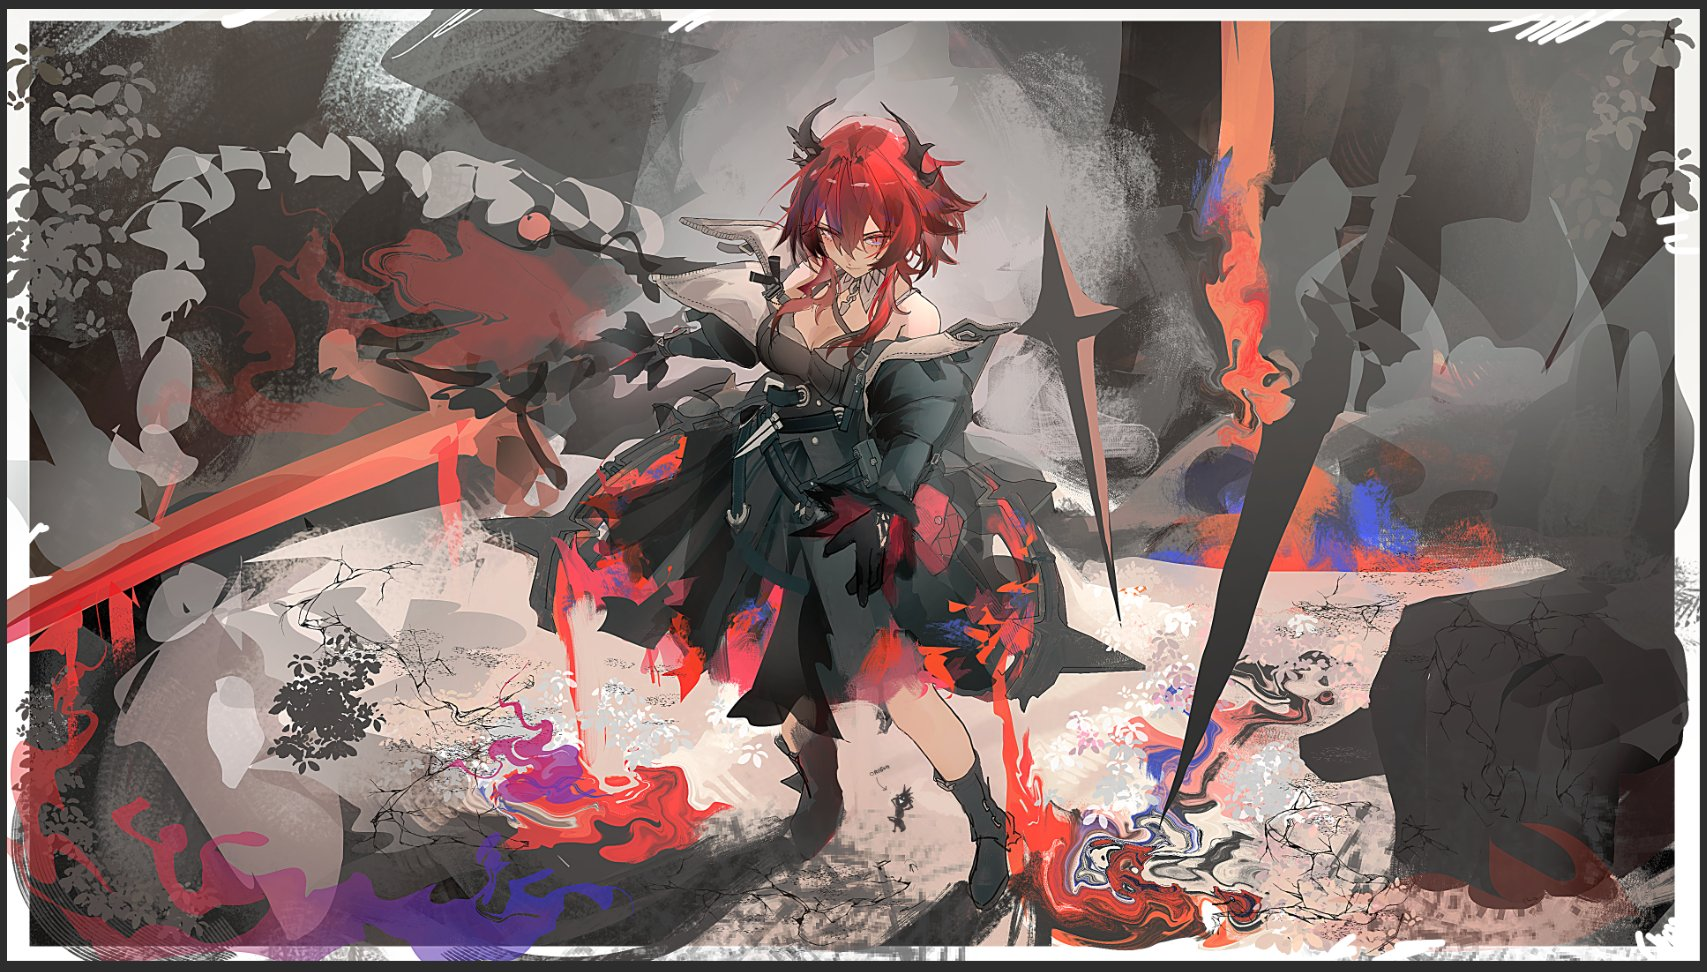
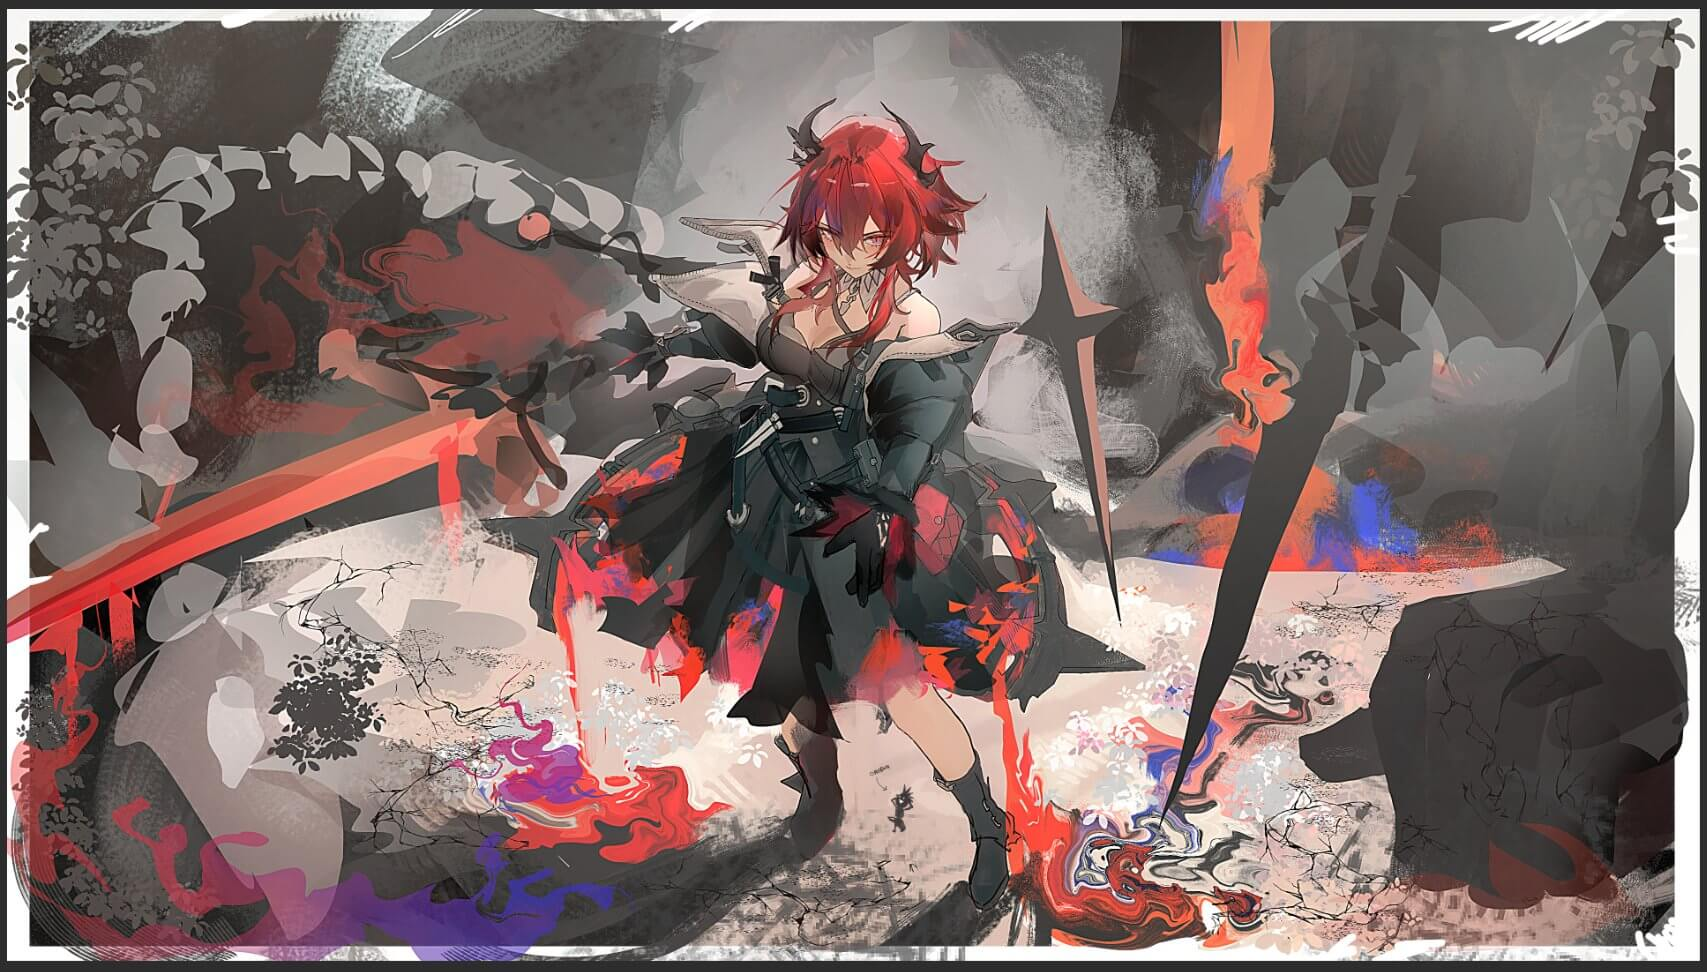
Add interactive member card themes
Expose MemberCard through slash commands, add previewable theme selection, and include the Perlica theme. Also commit the manually compressed bundled theme backdrops to keep the cog size down.

diff --git a/membercard/membercard.py b/membercard/membercard.py
@@ -10,6 +10,77 @@ from .card import DEFAULT_THEME, THEMES, render_card
 
 log = logging.getLogger("red.raidensakura.membercard")
 
+THEME_DESCRIPTIONS = {
+    "classic": "An ID-badge style card with a barcode footer.",
+    "laevatain": "A full-art profile card with a stat panel.",
+    "fangyi": "A green-trimmed full-art profile card.",
+    "yvonne": "A pink-trimmed full-art profile card.",
+    "perlica": "A steel-blue full-art profile card.",
+}
+
+
+class ThemePicker(discord.ui.Select):
+    """A private theme selector that refreshes the card preview when changed."""
+
+    def __init__(self, cog: "MemberCard", member: discord.Member, theme: str):
+        options = [
+            discord.SelectOption(
+                label=name.title(),
+                value=name,
+                description=THEME_DESCRIPTIONS.get(name),
+                default=name == theme,
+            )
+            for name in THEMES
+        ]
+        super().__init__(
+            placeholder="Choose a card theme",
+            min_values=1,
+            max_values=1,
+            options=options,
+            custom_id="membercard_theme_picker",
+        )
+        self.cog = cog
+        self.member = member
+
+    async def callback(self, interaction: discord.Interaction):
+        if interaction.user.id != self.member.id:
+            await interaction.response.send_message(
+                "This theme picker isn't for you.", ephemeral=True
+            )
+            return
+
+        theme = self.values[0]
+        await interaction.response.defer()
+        try:
+            buffer = await self.cog._generate_card(self.member, theme_override=theme)
+        except Exception as exc:
+            log.exception(
+                "Failed to generate theme preview for %s.", self.member.id, exc_info=exc
+            )
+            await interaction.edit_original_response(
+                content="Something went wrong while generating that theme preview."
+            )
+            return
+
+        await self.cog.config.user(self.member).theme.set(theme)
+        self.view.set_theme(theme)
+        embed = self.cog._theme_preview_embed(self.member, theme)
+        file = discord.File(buffer, filename="membercard.png")
+        await interaction.edit_original_response(
+            content=None, embed=embed, attachments=[file], view=self.view
+        )
+
+
+class ThemePickerView(discord.ui.View):
+    def __init__(self, cog: "MemberCard", member: discord.Member, theme: str):
+        super().__init__(timeout=180)
+        self.add_item(ThemePicker(cog, member, theme))
+
+    def set_theme(self, theme: str) -> None:
+        picker = self.children[0]
+        for option in picker.options:
+            option.default = option.value == theme
+
 
 class MemberCard(commands.Cog):
     """
@@ -18,7 +89,7 @@ class MemberCard(commands.Cog):
     """
 
     __author__ = ["raidensakura"]
-    __version__ = "1.0.0"
+    __version__ = "1.1.0"
 
     default_guild = {"enabled": False, "channel": None}
     default_user = {"theme": None}
@@ -75,6 +146,13 @@ class MemberCard(commands.Cog):
     async def _generate_card(
         self, member: discord.Member, *, theme_override: str = None
     ) -> io.BytesIO:
+        # Interaction payloads can contain a lightweight Member without presence
+        # activities. Prefer Red's cached guild member so theme-picker previews
+        # receive the same custom-status data as prefix-command card renders.
+        cached_member = member.guild.get_member(member.id)
+        if cached_member is not None:
+            member = cached_member
+
         avatar_bytes = await member.display_avatar.with_size(512).read()
 
         guild_icon_bytes = None
@@ -134,13 +212,29 @@ class MemberCard(commands.Cog):
             title=f"Welcome to {member.guild.name}!",
             description=(
                 f"{member.mention} just joined the server.\n"
-                f"Use `{prefix}membercard theme` to change your card's theme."
+                "Choose and preview your card theme with "
+                f"`{prefix}membercard theme` or `/membercard theme`."
             ),
             color=member.color if member.color.value else discord.Color.blurple(),
         )
         embed.set_image(url="attachment://membercard.png")
         file = discord.File(buffer, filename="membercard.png")
         return embed, file
+
+    @staticmethod
+    def _theme_preview_embed(member: discord.Member, theme: str) -> discord.Embed:
+        embed = discord.Embed(
+            title="Choose your member card theme",
+            description=(
+                f"Selected theme: **{theme.title()}**\n"
+                f"{THEME_DESCRIPTIONS.get(theme, '')}\n\n"
+                "Choose another option below to preview it. Your selection is saved "
+                "automatically."
+            ),
+            color=member.color if member.color.value else discord.Color.blurple(),
+        )
+        embed.set_image(url="attachment://membercard.png")
+        return embed
 
     @commands.Cog.listener()
     async def on_member_join(self, member: discord.Member):
@@ -177,7 +271,7 @@ class MemberCard(commands.Cog):
         except discord.HTTPException as exc:
             log.exception("Failed to send member card in %s.", channel.id, exc_info=exc)
 
-    @commands.group(name="membercard", aliases=["mcard"])
+    @commands.hybrid_group(name="membercard", aliases=["mcard"])
     @commands.guild_only()
     async def membercard(self, ctx: commands.Context):
         """Manage and view member ID cards."""
@@ -228,35 +322,34 @@ class MemberCard(commands.Cog):
 
     @membercard.command(name="theme")
     @commands.guild_only()
-    async def membercard_theme(self, ctx: commands.Context, theme: str = None):
+    @commands.bot_has_permissions(attach_files=True, embed_links=True)
+    async def membercard_theme(self, ctx: commands.Context):
         """
-        View or set your personal member card theme.
+        Choose your personal member card theme from an interactive preview.
 
         Used by both `[p]membercard view` and your welcome card. Defaults to
         `classic` until you set one.
         """
-        if theme is None:
-            current = await self.config.user(ctx.author).theme()
-            available = ", ".join(f"`{name}`" for name in THEMES)
-            if current in THEMES:
-                await ctx.send(
-                    f"Your current theme is `{current}`.\nAvailable themes: {available}"
+        theme = await self._resolve_theme(ctx.author)
+        async with ctx.typing():
+            try:
+                buffer = await self._generate_card(ctx.author, theme_override=theme)
+            except Exception as exc:
+                log.exception(
+                    "Failed to generate theme preview for %s.",
+                    ctx.author.id,
+                    exc_info=exc,
                 )
-            else:
                 await ctx.send(
-                    "You haven't set a theme; defaulting to `classic`.\n"
-                    f"Available themes: {available}"
+                    "Something went wrong while generating that theme preview."
                 )
-            return
+                return
 
-        theme = theme.lower()
-        if theme not in THEMES:
-            available = ", ".join(f"`{name}`" for name in THEMES)
-            await ctx.send(f"Unknown theme `{theme}`. Available themes: {available}")
-            return
-
-        await self.config.user(ctx.author).theme.set(theme)
-        await ctx.send(f"Your member card theme is now set to `{theme}`.")
+        await ctx.send(
+            embed=self._theme_preview_embed(ctx.author, theme),
+            file=discord.File(buffer, filename="membercard.png"),
+            view=ThemePickerView(self, ctx.author, theme),
+        )
 
     @membercard.command(name="toggle")
     @commands.guild_only()

diff --git a/membercard/themes/perlica.py b/membercard/themes/perlica.py
@@ -1,0 +1,17 @@
+from __future__ import annotations
+
+from pathlib import Path
+
+from PIL import Image
+
+from . import _artcard
+
+BACKGROUND_PATH = Path(__file__).parent.parent / "backgrounds" / "perlica.jpg"
+# Dominant non-neutral hue sampled from Perlica's bundled backdrop artwork.
+BORDER_COLOR = (122, 168, 194)
+
+
+def render(**kwargs) -> Image.Image:
+    return _artcard.render(
+        background_path=BACKGROUND_PATH, border_color=BORDER_COLOR, **kwargs
+    )

diff --git a/membercard/card.py b/membercard/card.py
@@ -4,7 +4,7 @@ import io
 
 from PIL import Image
 
-from .themes import classic, fangyi, laevatain, yvonne
+from .themes import classic, fangyi, laevatain, perlica, yvonne
 
 DEFAULT_THEME = "classic"
 
@@ -13,6 +13,7 @@ THEMES = {
     "laevatain": laevatain.render,
     "fangyi": fangyi.render,
     "yvonne": yvonne.render,
+    "perlica": perlica.render,
 }
 
 # Themes draw at a higher internal resolution than this; downscaling to it with a

diff --git a/membercard/README.md b/membercard/README.md
@@ -17,20 +17,21 @@
 | `laevatain` | A full-art profile card over a fixed backdrop, with a stat panel and status quote box. |
 | `fangyi` | Same full-art layout as `laevatain`, over a different backdrop with a green trim. |
 | `yvonne` | Same full-art layout, over a different backdrop with a pink trim. |
+| `perlica` | Same full-art layout as `laevatain`, over a Perlica backdrop with a steel-blue trim. |
 
-`[p]membercard theme` sets which theme is used for both your welcome card and `[p]membercard view`. Defaults to `classic` until you set one.
+`[p]membercard theme` or `/membercard theme` opens a theme picker with an in-embed card preview. Selecting a theme updates the preview and saves it for both your welcome card and `view`. It defaults to `classic` until you make a selection.
 
-Welcome cards are **off by default** — enable them with `[p]membercard toggle`.
+Welcome cards are **off by default** — enable them with `[p]membercard toggle` or `/membercard toggle`.
 
 <h2 align="center">Commands</h2>
 
 | Command | Description |
 | --- | --- |
-| `[p]membercard view [member]` | View your own or another member's ID card. |
-| `[p]membercard theme [theme]` | View or set your personal card theme, used by `view`. |
-| `[p]membercard toggle` | Toggle whether a card is posted when a member joins. Off by default. Requires Manage Server. |
-| `[p]membercard channel [channel]` | Set the channel welcome cards are posted in. Leave blank to reset to the server's system channel. Requires Manage Server. |
-| `[p]membercard testwelcome [member]` | Preview the welcome message as it would appear on join. Bot owner only. |
+| `[p]membercard view [member]` / `/membercard view [member]` | View your own or another member's ID card. |
+| `[p]membercard theme` / `/membercard theme` | Open a personal theme picker with a live card preview. |
+| `[p]membercard toggle` / `/membercard toggle` | Toggle whether a card is posted when a member joins. Off by default. Requires Manage Server. |
+| `[p]membercard channel [channel]` / `/membercard channel [channel]` | Set the channel welcome cards are posted in. Leave blank to reset to the server's system channel. Requires Manage Server. |
+| `[p]membercard testwelcome [member]` / `/membercard testwelcome [member]` | Preview the welcome message as it would appear on join. Bot owner only. |
 
 `[p]mcard` also works as a shorthand alias for `[p]membercard`.
 
